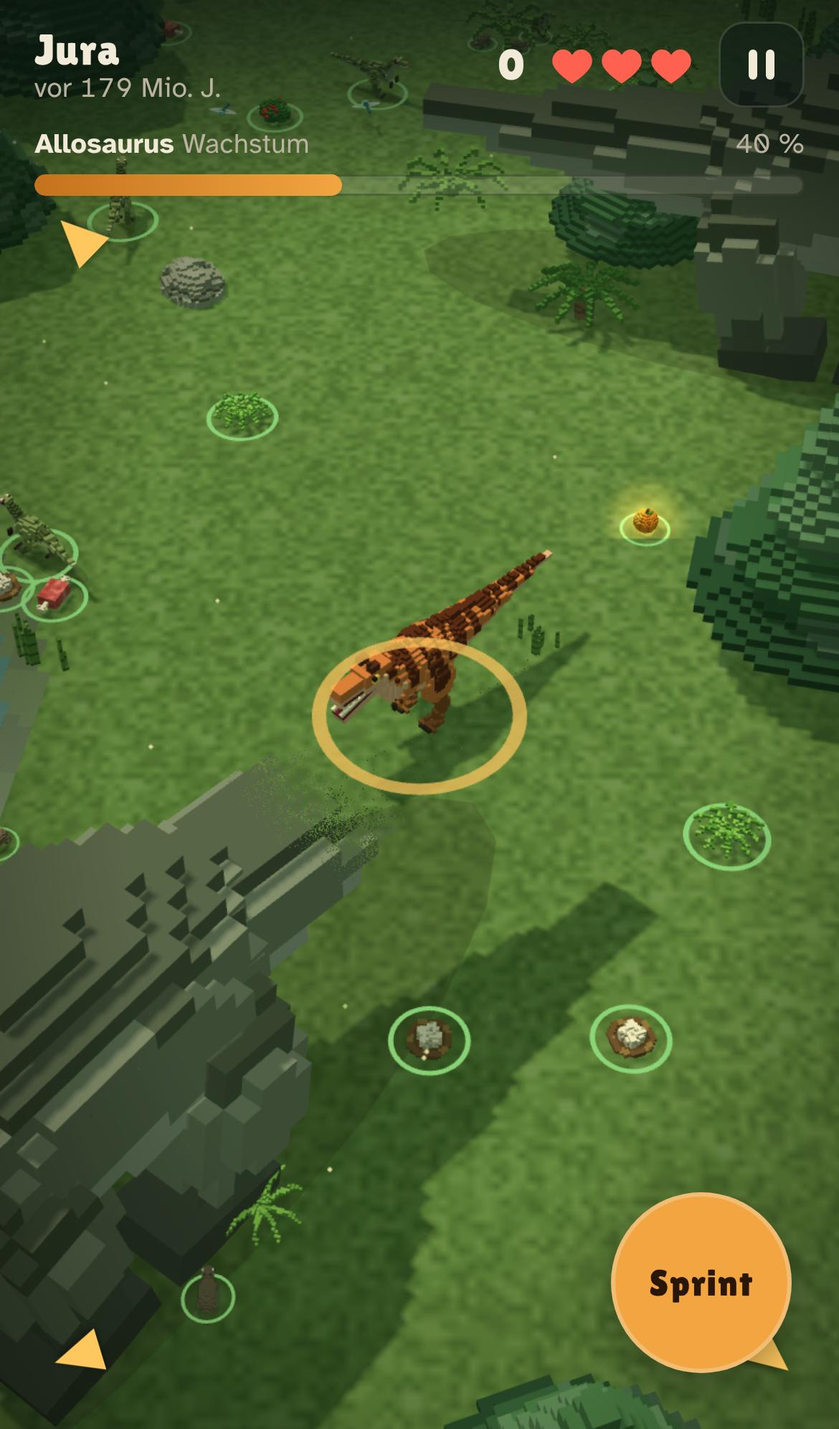
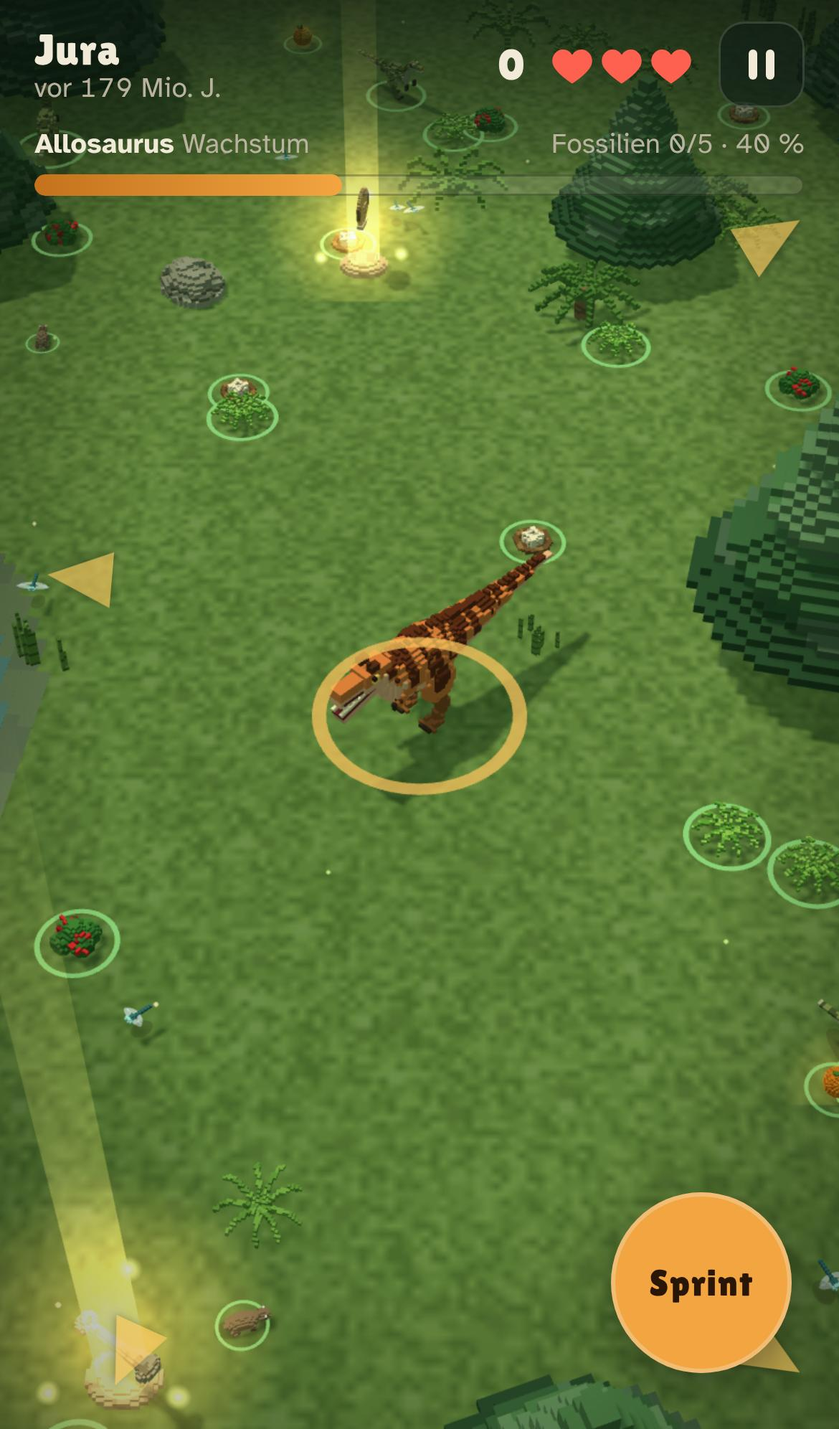
feat: 15 Fossilien in 11 Voxel-Fundarten, leichter zu finden
Lichtsäulen, Fundorte näher am Start, Zähler im HUD, Fossilbuch mit Bildern,
Reiter Fossilien in der Modellansicht.

Design: prototypes/urzeit-odyssee/README.md (Version 3.1)

Claude-Session: https://claude.ai/code/session_0149ejBGP8NAEbxPA8FZAkGc

diff --git a/prototypes/urzeit-odyssee/index.html b/prototypes/urzeit-odyssee/index.html
@@ -121,11 +121,9 @@ h2{font-size:clamp(34px,9vw,46px)}
 
 /* Fossilbuch */
 .book{display:grid;gap:8px;max-height:52vh;overflow-y:auto;padding-right:4px}
-.fossil{display:grid;grid-template-columns:34px minmax(0,1fr);gap:12px;padding:10px 0;border-top:1px solid var(--line)}
-.fossil .ico{width:34px;height:34px;border-radius:50%;background:radial-gradient(circle at 40% 40%,#f3d9a3,#b98a4a);position:relative}
-.fossil .ico::after{content:"";position:absolute;inset:8px;border-radius:50%;border:2px solid rgba(90,55,20,.6);border-right-color:transparent}
-.fossil.locked .ico{background:rgba(242,234,216,.1)}
-.fossil.locked .ico::after{display:none}
+.fossil{display:grid;grid-template-columns:64px minmax(0,1fr);gap:12px;align-items:center;padding:10px 0;border-top:1px solid var(--line)}
+.fossil img{width:64px;height:64px;border-radius:14px;background:radial-gradient(circle at 50% 42%,rgba(242,165,65,.32),rgba(242,234,216,.05) 70%)}
+.fossil.locked img{filter:brightness(0) opacity(.35);background:rgba(242,234,216,.06)}
 .fossil b{display:block;font-size:15px}
 .fossil small{display:block;font-size:12px;color:var(--amber);letter-spacing:.08em;text-transform:uppercase}
 .fossil span{font-size:14px;color:var(--muted)}
@@ -138,6 +136,8 @@ h2{font-size:clamp(34px,9vw,46px)}
 @keyframes sky{from{opacity:.7}to{opacity:1}}
 #joy{position:fixed;left:0;top:0;z-index:2;width:112px;height:112px;margin:-56px 0 0 -56px;border-radius:50%;border:2px solid rgba(242,234,216,.38);background:rgba(242,234,216,.1);pointer-events:none}
 #joy i{position:absolute;left:50%;top:50%;width:48px;height:48px;margin:-24px 0 0 -24px;border-radius:50%;background:rgba(242,234,216,.5)}
+.arrow.fos{margin:-13px 0 0 -12px;border-left-width:30px;border-top-width:13px;border-bottom-width:13px;animation:fosPulse 1.1s ease-in-out infinite}
+@keyframes fosPulse{0%,100%{opacity:.55}50%{opacity:1}}
 .arrow{position:fixed;left:0;top:0;z-index:2;width:0;height:0;margin:-10px 0 0 -9px;border-left:22px solid currentColor;border-top:10px solid transparent;border-bottom:10px solid transparent;pointer-events:none;filter:drop-shadow(0 1px 2px rgba(0,0,0,.45))}
 /* Modellansicht */
 .gal #tint,.gal #vignette,.gal #sky,.gal #arrows,.gal #toast,.gal #joy{display:none!important}
@@ -152,7 +152,7 @@ h2{font-size:clamp(34px,9vw,46px)}
 .gtab:focus-visible{outline:3px solid var(--amber);outline-offset:2px}
 
 @media (prefers-reduced-motion:reduce){
-  #overlay.show .card,#toast.show,#sky{animation:none}
+  #overlay.show .card,#toast.show,#sky,.arrow.fos{animation:none}
   .bar i{transition:none}
 }
 </style>
@@ -164,7 +164,7 @@ h2{font-size:clamp(34px,9vw,46px)}
 <div id="gallery" hidden>
   <div class="g-head" id="gHead"></div>
   <div id="gLabels"></div>
-  <div class="g-bar"><button class="gtab" data-g="eo">Eoraptor</button><button class="gtab" data-g="hunter">Raubjäger</button><button class="gtab" data-g="food">Futter</button><button class="gtab" data-g="back">Zurück</button></div>
+  <div class="g-bar"><button class="gtab" data-g="eo">Eoraptor</button><button class="gtab" data-g="hunter">Raubjäger</button><button class="gtab" data-g="food">Futter</button><button class="gtab" data-g="fossil">Fossilien</button><button class="gtab" data-g="back">Zurück</button></div>
 </div>
 
 <header id="hud" hidden>
@@ -227,9 +227,11 @@ const ERAS = [
       ['Tiere', 'Die ersten Dinosaurier waren klein, flink und zweibeinig.'],
     ],
     fossils: [
-      { id: 't1', title: 'Welt ohne Blumen', text: 'In der Trias gab es noch keine Blumen und Gräser. Es wuchsen Farne, Ginkgos, Palmfarne und Nadelbäume.' },
-      { id: 't2', title: 'Herrscher Pseudosuchia', text: 'An der Spitze standen nicht die Dinosaurier, sondern krokodilähnliche Archosaurier wie Postosuchus.' },
-      { id: 't3', title: 'Mussaurus-Nester', text: 'In Patagonien fand man an einer Stelle über 100 Eier und rund 80 Tiere von Mussaurus.' },
+      { id: 't1', type: 'leaf', title: 'Welt ohne Blumen', text: 'In der Trias gab es noch keine Blumen und Gräser. Es wuchsen Farne, Ginkgos, Palmfarne und Nadelbäume.' },
+      { id: 't2', type: 'tooth', title: 'Herrscher Pseudosuchia', text: 'An der Spitze standen nicht die Dinosaurier, sondern krokodilähnliche Archosaurier wie Postosuchus.' },
+      { id: 't3', type: 'egg', title: 'Mussaurus-Nester', text: 'In Patagonien fand man an einer Stelle über 100 Eier und rund 80 Tiere von Mussaurus.' },
+      { id: 't4', type: 'feather', title: 'Flaum gegen den Winter', text: 'Isolierende Filamente halfen frühen Dinosauriern vermutlich, die vulkanischen Winter an der Trias-Jura-Grenze zu überstehen.' },
+      { id: 't5', type: 'bone', title: 'Thermometer im Knochen', text: 'Sauerstoff-Isotope im Knochen hängen von der Temperatur ab. So lässt sich die Körpertemperatur von Dinosauriern abschätzen.' },
     ],
     outro: { title: 'Massenaussterben', text: 'Am Ende der Trias sterben viele große Konkurrenten der Dinosaurier aus. Das ist der Startschuss für ihre Herrschaft.', next: 'Weiter in den Jura' },
     species: [
@@ -259,9 +261,11 @@ const ERAS = [
       ['Pflanzen', 'Riesige Wälder aus Nadelbäumen, Farnen und Palmfarnen.'],
     ],
     fossils: [
-      { id: 'j1', title: 'Riesen-Sauropoden', text: 'Langhalsige Sauropoden wie Brachiosaurus und Diplodocus wurden im Jura gigantisch.' },
-      { id: 'j2', title: 'Erste große Räuber', text: 'Mit Allosaurus tauchten im Jura die ersten großen Raubsaurier auf.' },
-      { id: 'j3', title: 'Panzer und Platten', text: 'Gepanzerte Dinosaurier wie Stegosaurus erschienen zum ersten Mal.' },
+      { id: 'j1', type: 'bone', title: 'Riesen-Sauropoden', text: 'Langhalsige Sauropoden wie Brachiosaurus und Diplodocus wurden im Jura gigantisch.' },
+      { id: 'j2', type: 'claw', title: 'Erste große Räuber', text: 'Mit Allosaurus tauchten im Jura die ersten großen Raubsaurier auf.' },
+      { id: 'j3', type: 'plate', title: 'Panzer und Platten', text: 'Gepanzerte Dinosaurier wie Stegosaurus erschienen zum ersten Mal.' },
+      { id: 'j4', type: 'vertebra', title: 'Atmen wie ein Vogel', text: 'Sauropoden besaßen ein vogelähnliches Atmungssystem mit Luftsäcken. Die Luft strömte in einer Richtung durch die Lunge.' },
+      { id: 'j5', type: 'feather', title: 'Schuppen und Flaum', text: 'Kulindadromeus aus dem Mitteljura Sibiriens trug Schuppen und federartige Filamente. Auch Vogelbeckensaurier hatten also Flaum.' },
     ],
     outro: { title: 'Zeitalter der Riesen', text: 'Die Dinosaurier sind so vielfältig und groß wie nie. Als Nächstes kommt die Kreidezeit, die längste Epoche der Dinosaurier.', next: 'Weiter in die Kreidezeit' },
     species: [
@@ -292,9 +296,11 @@ const ERAS = [
       ['Pflanzen', 'Die ersten Blütenpflanzen tauchen auf.'],
     ],
     fossils: [
-      { id: 'k1', title: 'Verheilte Bisse', text: 'Triceratops-Hörner mit verheilten T.-rex-Bissspuren zeigen: Der Triceratops überlebte manche Kämpfe.' },
-      { id: 'k2', title: 'Brütender Citipati', text: 'Ein Citipati wurde auf seinem Gelege versteinert, die befiederten Arme über den Eiern.' },
-      { id: 'k3', title: 'Vogel vor dem Einschlag', text: 'Vegavis lebte vor rund 69 Millionen Jahren in der Antarktis: ein Vogel noch zur Zeit der Dinosaurier.' },
+      { id: 'k1', type: 'horn', title: 'Verheilte Bisse', text: 'Triceratops-Hörner mit verheilten T.-rex-Bissspuren zeigen: Der Triceratops überlebte manche Kämpfe.' },
+      { id: 'k2', type: 'egg', title: 'Brütender Citipati', text: 'Ein Citipati wurde auf seinem Gelege versteinert, die befiederten Arme über den Eiern.' },
+      { id: 'k3', type: 'feather', title: 'Vogel vor dem Einschlag', text: 'Vegavis lebte vor rund 69 Millionen Jahren in der Antarktis: ein Vogel noch zur Zeit der Dinosaurier.' },
+      { id: 'k4', type: 'skull', title: 'Nase eines Jägers', text: 'Tyrannosaurier hatten auffallend große Riechkolben und witterten Beute vermutlich über weite Strecken. Ihre Augen zeigten nach vorn.' },
+      { id: 'k5', type: 'track', title: 'Schnellste Fährte', text: 'In der Inneren Mongolei hinterließ ein mittelgroßer Theropode eine Spur aus der Unterkreide, die auf bis zu etwa 45 km/h schließen lässt.' },
     ],
     outro: { title: 'Vor 66 Millionen Jahren', text: 'Ein Asteroid schlägt ein. Die großen Dinosaurier haben keine Chance. Aber deine Linie hat einen Trumpf.', next: 'Zum Einschlag' },
     species: [
@@ -856,7 +862,27 @@ function foodPrims(type, P) {
   for (let k = 0; k < 4; k++) { const a = k / 4 * TAU + .4; B.push(pE([Math.cos(a) * .22, .25, Math.sin(a) * .22], [.2, .27, .2], (x, y, z, N, ix, iy, iz) => (hashI(ix, iy, iz, 2) > .85 ? shade(P.egg, -.25) : N[1] > .5 ? shade(P.egg, .2) : P.egg))); }
   return { prims: B, v: .06 };
 }
-const fossilGeo = voxGeo([pE([0, 0, 0], [1, 1, .28], (x, y, z) => { const r = Math.hypot(x, y), a = Math.atan2(y, x) / TAU + .5, uu = r * 4.2 - a; return uu - Math.floor(uu) < .3 ? '#8a5a2a' : (r > .9 ? '#c9a46a' : '#ead0a0'); })], .1);
+/* Fossilien: elf Fundarten aus Würfeln (Einheit ~1) */
+const FOSSIL_NAMES = { leaf: 'Farnabdruck', tooth: 'Zahn', egg: 'Eier', feather: 'Federabdruck', bone: 'Knochen', vertebra: 'Wirbel', claw: 'Kralle', plate: 'Rückenplatte', horn: 'Horn', skull: 'Schädel', track: 'Fährte' };
+const STONE = '#bcae90', STONE2 = '#a29478', FB1 = '#dcc79e', FB2 = '#b39a6e', FDARK = '#3a2c20';
+const fbone = (x, y, z, N, ix, iy, iz) => (vnoise(ix / 2, iy / 2, iz / 2, 31) > .62 ? FB2 : FB1);
+const slab = (h, fn) => pB([0, .12, 0], [h[0], .12, h[1]], (x, y, z, N) => (N[1] > .7 ? fn(x, z) : y < .07 ? STONE2 : STONE));
+const FOSSILS = {
+  leaf: () => ({ v: .05, prims: [slab([.8, .6], (x, z) => { const m = z - .12 * x, w = .34 * (1 - Math.abs(x) / .7); if (Math.abs(x) > .66) return STONE; if (Math.abs(m) < .045) return '#4e4a2a'; return Math.abs(m) < w && (((x * 9) % 1 + 1) % 1) < .5 ? '#6f7a3e' : STONE; })] }),
+  feather: () => ({ v: .05, prims: [slab([.8, .6], (x, z) => { const zz = z - .08 * Math.sin(x * 3), w = .24 * (1 - Math.abs(x - .05) / .65); if (Math.abs(x) > .66) return STONE; if (Math.abs(zz) < .035) return '#4a4236'; return Math.abs(zz) < w && (((x * 11 + Math.abs(zz) * 9) % 1 + 1) % 1) < .55 ? '#6e665a' : (Math.abs(zz) < w ? '#8f877a' : STONE); })] }),
+  track: () => ({ v: .05, prims: [slab([.85, .7], (x, z) => { const heel = Math.hypot(x + .28, z) < .16, toe = (tx, tz) => { const L = Math.hypot(tx + .2, tz), t = clamp(((x + .2) * (tx + .2) + z * tz) / (L * L), 0, 1); return Math.hypot(x + .2 - (tx + .2) * t, z - tz * t) < .075; }; return heel || toe(.32, -.3) || toe(.45, 0) || toe(.32, .3) ? '#6a5a44' : STONE; })] }),
+  egg: () => ({ v: .05, prims: [pE([0, .08, 0], [.78, .11, .62], STONE2), ...[[-.25, -.12, .3], [.22, -.18, -.4], [.02, .24, .1]].map(([x, z, r]) => pE([x, .2, z], [.24, .19, .19], (xx, y, zz, N, ix, iy, iz) => (hashI(ix, iy, iz, 5) > .86 ? '#8e7e60' : '#d2c4a2'), [0, r, .2]))] }),
+  bone: () => ({ v: .05, prims: [pC([-.6, .18, 0], [.6, .18, 0], .1, .12, fbone), pE([-.7, .22, -.09], [.15, .15, .15], fbone), pE([-.7, .22, .09], [.15, .15, .15], fbone), pE([.7, .2, 0], [.17, .15, .21], fbone)] }),
+  vertebra: () => ({ v: .045, prims: [pC([0, .25, -.2], [0, .25, .2], .25, .25, (x, y, z, N, ix, iy, iz) => (Math.abs(x) > .14 && Math.hypot(y - .25, z) < .1 ? FDARK : fbone(x, y, z, N, ix, iy, iz))), pB([0, .66, 0], [.08, .3, .07], fbone), pC([0, .42, 0], [-.48, .46, 0], .08, .05, fbone), pC([0, .42, 0], [.48, .46, 0], .08, .05, fbone), pB([0, .5, .1], [.06, .06, .06], FDARK)] }),
+  claw: () => { const pts = [[-.38, .14], [-.08, .38], [.24, .44], [.5, .3], [.62, .1]], r = [.16, .13, .1, .065, .035], B = []; for (let i = 0; i < 4; i++) B.push(pC([pts[i][0], pts[i][1], 0], [pts[i + 1][0], pts[i + 1][1], 0], r[i], r[i + 1], i < 1 ? '#7a5a3e' : '#4a3426')); return { v: .045, prims: B }; },
+  plate: () => ({ v: .045, prims: [pE([0, .55, 0], [.48, .55, .07], (x, y, z, N, ix, iy) => (Math.abs(N[0]) > .85 || N[1] > .9 ? '#7a5a30' : (iy % 3 === 0 ? '#9a7642' : '#c49c60'))), pB([0, .05, 0], [.3, .05, .1], STONE2)] }),
+  horn: () => ({ v: .045, prims: [pK([-.5, .15, 0], [1, .5, 0], .22, 1.2, (x, y, z, N, ix, iy, iz) => (NN.t > .25 && NN.t < .7 && hashI(ix, iy, iz, 9) > .9 ? FDARK : NN.t > .7 ? '#e6d4ac' : NN.t < .15 ? '#9a805a' : FB1))] }),
+  skull: () => { const B = [pB([-.15, .4, 0], [.3, .24, .22], fbone), pB([.38, .32, 0], [.32, .16, .16], fbone), pB([.2, .12, 0], [.46, .06, .15], FB2)]; for (const sd of [-1, 1]) B.push(pB([-.1, .46, sd * .21], [.09, .09, .03], FDARK), pB([.2, .36, sd * .155], [.1, .07, .03], FDARK), pB([.62, .38, sd * .155], [.045, .045, .03], FDARK)); for (let x = .12; x < .66; x += .09) for (const sd of [-1, 1]) B.push(pB([x, .17, sd * .13], [.03, .04, .03], '#f2e8cc')); return { v: .045, prims: B }; },
+  tooth: () => ({ v: .04, prims: [pC([0, .04, 0], [.05, .42, 0], .17, .12, (x, y) => (y < .16 ? '#7a5a3e' : '#ece0c0')), pC([.05, .42, 0], [.18, .82, 0], .12, .04, (x, y, z, N, ix, iy) => (N[0] > .7 && (iy & 1) ? '#c9b994' : '#ece0c0'))] }),
+};
+const fossilGeoCache = {};
+function getFossilGeo(type) { if (!fossilGeoCache[type]) { const d = FOSSILS[type](); fossilGeoCache[type] = voxGeo(d.prims, d.v); } return fossilGeoCache[type]; }
+const FOSSIL_BASE = voxGeo([pE([0, .1, 0], [.9, .32, .75], (x, y, z, N, ix, iy, iz) => (vnoise(ix / 2, iy / 2, iz / 2, 21) > .55 ? '#8a7c66' : '#a3957c'))], .1);
 const seedGeo = voxGeo([0, 1, 2].map(k => pE([Math.cos(k * 2.1) * .35, .22, Math.sin(k * 2.1) * .35], [.35, .22, .25], k === 1 ? '#d2a85e' : '#e2bd72')), .12);
 
 /* =====================================================================
@@ -905,8 +931,11 @@ function canvasTex(px, draw) { const c = document.createElement('canvas'); c.wid
 const glowTex = canvasTex(64, (g, p) => { const gr = g.createRadialGradient(p / 2, p / 2, 0, p / 2, p / 2, p / 2); gr.addColorStop(0, 'rgba(255,255,255,1)'); gr.addColorStop(.35, 'rgba(255,255,255,.45)'); gr.addColorStop(1, 'rgba(255,255,255,0)'); g.fillStyle = gr; g.fillRect(0, 0, p, p); });
 const dotTex = canvasTex(32, (g, p) => { g.fillStyle = '#fff'; g.beginPath(); g.arc(p / 2, p / 2, p / 2 - 1, 0, TAU); g.fill(); });
 const glowMat = (c, o = 1) => new THREE.SpriteMaterial({ map: glowTex, color: col(c), transparent: true, opacity: o, blending: THREE.AdditiveBlending, depthWrite: false });
-const matFossilGlow = glowMat('#ffb347', .9), matSeedGlow = glowMat('#ffd98a', .55), matFruitGlow = glowMat('#ffb23c', .75), matMeteorGlow = glowMat('#ff8a3c'), matTrail = glowMat('#ff6a2a', .6);
+const matSpark = glowMat('#fff2c0', .95), matFossilGlow = glowMat('#ffb347', .9), matSeedGlow = glowMat('#ffd98a', .55), matFruitGlow = glowMat('#ffb23c', .75), matMeteorGlow = glowMat('#ff8a3c'), matTrail = glowMat('#ff6a2a', .6);
 
+const beamTex = canvasTex(64, (g, p) => { const gr = g.createLinearGradient(0, 0, 0, p); gr.addColorStop(0, 'rgba(255,255,255,0)'); gr.addColorStop(.55, 'rgba(255,255,255,.35)'); gr.addColorStop(1, 'rgba(255,255,255,1)'); g.fillStyle = gr; g.fillRect(0, 0, p, p); });
+const matBeam = new THREE.MeshBasicMaterial({ map: beamTex, color: col('#ffcf6a'), transparent: true, opacity: .4, blending: THREE.AdditiveBlending, depthWrite: false, side: THREE.DoubleSide, fog: false });
+const BEAM_GEO = new THREE.CylinderGeometry(1, 1, 1, 18, 1, true).translate(0, .5, 0);
 function mergePlain(geos) {
   let n = 0; geos.forEach(g => { n += g.attributes.position.array.length; });
   const pos = new Float32Array(n); let o = 0;
@@ -1126,6 +1155,7 @@ function clearWorld() {
   for (const b of world.batches) b.detach();
   for (const t in world.food) { const set = world.food[t]; scene.remove(set.mesh); for (const it of set.items) if (it.glow) scene.remove(it.glow); set.items.length = 0; set.dirty = true; }
   for (const o of [...world.fossils, ...world.seeds]) if (o.mesh) scene.remove(o.mesh);
+  for (const f of world.fossils) { f.beam.material.dispose(); f.glow.material.dispose(); }
   for (const o of world.craters) scene.remove(o);
   if (F) for (const m of F.meteors) removeMeteor(m);
   scene.remove(world.group);
@@ -1160,17 +1190,24 @@ function buildWorld(i) {
     const small = E.species.find(sp => sp.diet !== 'bug' && sp.size <= 9);
     if (small) world.creatures.filter(c => c.sp === small).slice(0, 3).forEach((c, k) => place(c, k + 4));
   }
-  for (const f of E.fossils) {
+  // Fossilien im Ring um den Start verteilen, jedes mit Steinsockel, Lichtsäule und Funken
+  const ang0 = R() * TAU;
+  E.fossils.forEach((f, k) => {
     let x, y;
-    for (let k = 0; k < 40; k++) {
-      x = 200 + R() * (WORLD - 400); y = 200 + R() * (WORLD - 400);
-      if (Math.hypot(x - WORLD / 2, y - WORLD / 2) > 650 && world.fossils.every(o => Math.hypot(o.x - x, o.y - y) > 700)) break;
+    for (let tries = 0; tries < 60; tries++) {
+      const a = ang0 + k * TAU / E.fossils.length + (R() - .5) * .9, d = 320 + R() * 560;
+      x = clamp(WORLD / 2 + Math.cos(a) * d, 150, WORLD - 150); y = clamp(WORLD / 2 + Math.sin(a) * d, 150, WORLD - 150);
+      if (world.fossils.every(o => Math.hypot(o.x - x, o.y - y) > 380)) break;
     }
-    const mesh = new THREE.Group(), am = new THREE.Mesh(fossilGeo, matC); am.scale.setScalar(12); am.castShadow = true;
-    const glow = new THREE.Sprite(matFossilGlow); glow.scale.setScalar(90);
-    mesh.add(glow, am); mesh.position.set(x, 20, y); scene.add(mesh);
-    world.fossils.push({ ...f, x, y, got: false, mesh, am });
-  }
+    const mesh = new THREE.Group(), base = new THREE.Mesh(FOSSIL_BASE, matC), model = new THREE.Mesh(getFossilGeo(f.type), matC);
+    base.scale.setScalar(15); base.castShadow = base.receiveShadow = true;
+    model.scale.setScalar(20); model.position.y = 26; model.castShadow = true;
+    const beam = new THREE.Mesh(BEAM_GEO, matBeam.clone()); beam.scale.set(9, 340, 9);
+    const glow = new THREE.Sprite(matFossilGlow.clone()); glow.scale.setScalar(115); glow.position.y = 30;
+    const sparks = [0, 1, 2].map(() => { const sp = new THREE.Sprite(matSpark); sp.scale.setScalar(9); mesh.add(sp); return sp; });
+    mesh.add(base, model, beam, glow); mesh.position.set(x, 0, y); scene.add(mesh);
+    world.fossils.push({ ...f, x, y, got: false, mesh, model, beam, glow, sparks, t0: -1 });
+  });
   partsN = 0;
 }
 
@@ -1350,12 +1387,12 @@ function interact() {
     for (let i = items.length - 1; i >= 0; i--) { const it = items[i]; if (Math.hypot(it.x - p.x, it.y - p.y) < p.s * .9 + it.s * .6) eatFood(it); }
   }
   for (const f of world.fossils) {
-    if (f.got || Math.hypot(f.x - p.x, f.y - p.y) > p.s + 26) continue;
-    f.got = true; scene.remove(f.mesh); game.found.add(f.id); game.score += 100; Sfx.fossil();
-    burst(f.x, f.y, '#ffd27a', 18, 140, 20);
+    if (f.got || Math.hypot(f.x - p.x, f.y - p.y) > p.s + 42) continue;
+    f.got = true; f.t0 = game.time; game.found.add(f.id); game.score += 100; Sfx.fossil();
+    burst(f.x, f.y, '#ffd27a', 26, 160, 26); burst(f.x, f.y, '#fff2c0', 12, 90, 40);
     const isNew = !store.fossils.includes(f.id);
     if (isNew) { store.fossils.push(f.id); save(); }
-    toast(isNew ? `Neu im Fossilbuch: ${f.title}` : `Fossil: ${f.title}`, f.text);
+    toast(`${isNew ? 'Neu im Fossilbuch' : 'Fossil'}: ${FOSSIL_NAMES[f.type]} · ${f.title}`, f.text);
   }
 }
 
@@ -1551,7 +1588,18 @@ function render3D() {
       m.count = n; m.instanceMatrix.needsUpdate = true;
     }
   }
-  for (const f of world.fossils) { f.am.rotation.y = t * 1.2; f.mesh.position.y = 20 + Math.sin(t * 2 + f.x) * 3; }
+  for (const f of world.fossils) {
+    if (f.t0 >= 0) {
+      const k = clamp((t - f.t0) / .8, 0, 1);
+      f.model.position.y = 26 + k * 70; f.model.scale.setScalar(20 * (1 + k * .6)); f.model.rotation.y += .25;
+      f.beam.material.opacity = .45 * (1 - k); f.glow.material.opacity = .9 * (1 - k); f.glow.scale.setScalar(115 * (1 + k * 1.5));
+      if (k >= 1 && f.mesh.parent) scene.remove(f.mesh);
+      continue;
+    }
+    f.model.rotation.y = t * 1.1 + f.x; f.model.position.y = 26 + Math.sin(t * 2 + f.x) * 4;
+    f.beam.material.opacity = .3 + .14 * Math.sin(t * 3 + f.y);
+    f.sparks.forEach((sp, i) => { const a = t * 1.6 + i * TAU / 3; sp.position.set(Math.cos(a) * 26, 26 + Math.sin(t * 3 + i) * 12, Math.sin(a) * 26); });
+  }
   for (const s of world.seeds) s.mesh.children[1].material.opacity = .45 + .15 * Math.sin(t * 4 + s.ph);
   // Spieler
   if (player && game.mode !== 'title') {
@@ -1597,16 +1645,17 @@ function updateOverlay() {
   else if (dom.flash.style.opacity !== '0') dom.flash.style.opacity = '0';
   let n = 0;
   if (player && (game.mode === 'play' || game.mode === 'paused')) {
-    for (const f of world.fossils) if (!f.got && n < 8) n = placeArrow(n, f.x, f.y, '#ffc85f');
-    for (const c of world.creatures) if (c.state === 'chase' && n < 8) n = placeArrow(n, c.x, c.y, '#ff6150');
+    for (const f of world.fossils) if (!f.got && n < 8) n = placeArrow(n, f.x, f.y, '#ffc85f', true);
+    for (const c of world.creatures) if (c.state === 'chase' && n < 8) n = placeArrow(n, c.x, c.y, '#ff6150', false);
   }
   for (let i = n; i < 8; i++) if (!arrowEls[i].hidden) arrowEls[i].hidden = true;
 }
-function placeArrow(n, x, y, c) {
+function placeArrow(n, x, y, c, fos) {
   let [sx, sy, sz] = screenOf(x, y, 10); const m = 34, top = 110;
   if (sz < 1 && sx > m && sx < W - m && sy > top && sy < H - m) return n;
   if (sz > 1) { sx = W - sx; sy = H - sy; }
   const a = Math.atan2(sy - H / 2, sx - W / 2), ax = clamp(sx, m, W - m), ay = clamp(sy, top, H - m), el = arrowEls[n];
+  const cls = fos ? 'arrow fos' : 'arrow'; if (el.className !== cls) el.className = cls;
   el.hidden = false; el.style.color = c; el.style.transform = `translate(${ax.toFixed(1)}px,${ay.toFixed(1)}px) rotate(${a.toFixed(3)}rad)`;
   return n + 1;
 }
@@ -1662,6 +1711,10 @@ function buildGallery() {
     const root = new THREE.Group(); root.add(mesh); root.scale.setScalar(sc); return { r: { root, parts: [], M: { height: 1.2 } }, label, below: true, spin: true, food: true };
   });
   tabs.food = { head: 'FUTTER-RESSOURCEN', items: foodItems };
+  tabs.fossil = { head: 'FOSSILIEN', items: Object.keys(FOSSIL_NAMES).map(type => {
+    const mesh = new THREE.Mesh(getFossilGeo(type), matG); mesh.castShadow = mesh.receiveShadow = true;
+    const root = new THREE.Group(); root.add(mesh); root.scale.setScalar(1.5); return { r: { root, parts: [], M: { height: 1 } }, label: FOSSIL_NAMES[type].toUpperCase(), below: true, spin: true, food: true };
+  }) };
   for (const k in tabs) { tabs[k].group = new THREE.Group(); tabs[k].items.forEach(it => tabs[k].group.add(it.r.root)); }
   gal = { scene: gs, cam: gcam, tabs, light: gl, labels: [] };
 }
@@ -1671,6 +1724,7 @@ function layoutGallery() {
   let cols = portrait ? 2 : n, gapX = 0;
   if (game.galleryTab === 'hunter') cols = portrait ? 1 : 3;
   if (game.galleryTab === 'food' && portrait) cols = 2;
+  if (game.galleryTab === 'fossil') cols = portrait ? 3 : 6;
   const sizes = items.map(it => new THREE.Box3().setFromObject(it.r.root).getSize(new THREE.Vector3()));
   const main = items.filter(it => !it.small);
   const cw = Math.max(...main.map(it => sizes[items.indexOf(it)].x), 1) + .35, rows = Math.ceil(main.length / cols), rd = (portrait ? 6 : 4.2) + (game.galleryTab === 'hunter' ? 2.2 : 0);
@@ -1742,7 +1796,7 @@ function updateHud() {
     const low = F.energy < .25; if (hudCache.low !== low) { hudCache.low = low; dom.barWrap.classList.toggle('low', low); }
   } else {
     setText('#hudClock', `vor ${Math.round(lerp(E.from, E.to, pr))} Mio. J.`);
-    setText('#hudPct', `${Math.round(pr * 100)} %`);
+    setText('#hudPct', `Fossilien ${game.found.size}/${E.fossils.length} · ${Math.round(pr * 100)} %`);
     setStyle('bar', dom.bar, 'width', `${(pr * 100).toFixed(1)}%`);
   }
 }
@@ -1793,7 +1847,7 @@ function showIntro() {
     <p class="lead">${E.lead}</p>
     <ul class="facts">${E.intro.map(([k, v]) => `<li><b>${k}</b><span>${v}</span></li>`).join('')}</ul>
     ${E.finale ? `<p class="hint">Rote Kreise zeigen, wo es gleich einschlägt. Überlebe ${CONFIG.finaleTime} Sekunden.</p>`
-      : '<div class="legend"><span class="lg ok">fressbar</span><span class="lg food">Farn, Beeren, Fleisch, Urzeitfrucht, Gelege</span><span class="lg bad">gefährlich</span><span class="lg fos">Fossil (3 pro Epoche)</span></div>'}
+      : `<div class="legend"><span class="lg ok">fressbar</span><span class="lg food">Farn, Beeren, Fleisch, Urzeitfrucht, Gelege</span><span class="lg bad">gefährlich</span><span class="lg fos">Fossil (${E.fossils.length} pro Epoche, goldene Lichtsäule)</span></div>`}
     <div class="row"><button class="btn primary" data-act="go">Los</button></div>
   `);
 }
@@ -1810,10 +1864,29 @@ function showPause() {
     </div>
   `);
 }
+const thumbCache = {}, matThumb = new THREE.MeshLambertMaterial({ vertexColors: true });
+// Kleines Bild eines Fossils für das Fossilbuch (einmal gerendert, dann zwischengespeichert)
+function fossilThumb(type) {
+  if (thumbCache[type]) return thumbCache[type];
+  const S = 160, rt = new THREE.WebGLRenderTarget(S, S); rt.texture.encoding = THREE.sRGBEncoding;
+  const ts = new THREE.Scene(), dl = new THREE.DirectionalLight(col('#ffffff'), .75); dl.position.set(-2, 3, 2);
+  ts.add(new THREE.HemisphereLight(col('#ffffff'), col('#8a8070'), .8), dl);
+  const mesh = new THREE.Mesh(getFossilGeo(type), matThumb); mesh.rotation.y = -.5; ts.add(mesh);
+  const box = new THREE.Box3().setFromObject(mesh), c = box.getCenter(new THREE.Vector3()), r = box.getSize(new THREE.Vector3()).length() * .5;
+  const cam = new THREE.PerspectiveCamera(30, 1, .01, 50); cam.position.set(c.x + r * .9, c.y + r * 1.7, c.z + r * 2.9); cam.lookAt(c);
+  const oc = renderer.getClearColor(new THREE.Color()), oa = renderer.getClearAlpha();
+  renderer.setClearColor(0x000000, 0); renderer.setRenderTarget(rt); renderer.clear(); renderer.render(ts, cam);
+  const px = new Uint8Array(S * S * 4); renderer.readRenderTargetPixels(rt, 0, 0, S, S, px);
+  renderer.setRenderTarget(null); renderer.setClearColor(oc, oa); rt.dispose();
+  const cv = document.createElement('canvas'); cv.width = cv.height = S; const g = cv.getContext('2d'), img = g.createImageData(S, S);
+  for (let y = 0; y < S; y++) img.data.set(px.subarray((S - 1 - y) * S * 4, (S - y) * S * 4), y * S * 4);
+  g.putImageData(img, 0, 0);
+  return (thumbCache[type] = cv.toDataURL());
+}
 function showBook() {
   const items = ALL_FOSSILS.map(f => {
     const got = store.fossils.includes(f.id);
-    return `<div class="fossil ${got ? '' : 'locked'}"><div class="ico"></div><div><small>${f.era}</small><b>${got ? f.title : 'Noch nicht gefunden'}</b><span>${got ? f.text : 'Suche die leuchtenden Ammoniten. Goldene Pfeile am Rand zeigen den Weg.'}</span></div></div>`;
+    return `<div class="fossil ${got ? '' : 'locked'}"><img src="${fossilThumb(f.type)}" alt="${FOSSIL_NAMES[f.type]}"><div><small>${f.era} · ${FOSSIL_NAMES[f.type]}</small><b>${got ? f.title : 'Noch nicht gefunden'}</b><span>${got ? f.text : 'Folge den goldenen Lichtsäulen und Pfeilen.'}</span></div></div>`;
   }).join('');
   card(`
     <p class="eyebrow">Fossilbuch · ${store.fossils.length} von ${ALL_FOSSILS.length}</p>
@@ -1854,7 +1927,7 @@ function eraDone() {
     <p class="eyebrow">${E.name} geschafft · vor ${E.to} Mio. Jahren</p>
     <h2>${E.outro.title}</h2>
     <p>${E.outro.text}</p>
-    <div class="stats">${stat(game.score, 'Punkte')}${stat(`${game.found.size}/3`, 'Fossilien')}${stat(Math.round(player.targetS), 'Größe')}</div>
+    <div class="stats">${stat(game.score, 'Punkte')}${stat(`${game.found.size}/${E.fossils.length}`, 'Fossilien')}${stat(Math.round(player.targetS), 'Größe')}</div>
     <div class="row"><button class="btn primary" data-act="next">${E.outro.next}</button></div>
   `);
 }

diff --git a/prototypes/urzeit-odyssee/README.md b/prototypes/urzeit-odyssee/README.md
@@ -124,5 +124,17 @@ Bot-Messung (läuft zur nächsten Beute, weicht Gefahren aus, ohne Sprint):
 - Bot-Messung Trias mit Fliehen: fair, aber lang → Ziel 38 → 34.
 - Ladezeit im Test-Browser: Titel nach 2 s, Epochenwechsel danach sofort (Vorbau im Hintergrund).
 
+### Version 3.1: Fossilien
+
+- 5 Fossilien pro Epoche statt 3 (15 insgesamt), neue Fakten aus dem Second Brain
+  (Flaum gegen den Vulkanwinter, Knochen als Thermometer, Luftsäcke, Kulindadromeus,
+  Riechkolben des T. rex, 45-km/h-Fährte).
+- 11 Voxel-Fundarten: Farnabdruck, Zahn, Eier, Federabdruck, Knochen, Wirbel, Kralle,
+  Rückenplatte, Horn, Schädel, Fährte. Jedes auf Steinsockel, schwebend, mit Funken.
+- Leichter zu finden: goldene Lichtsäule (ohne Nebel, von weitem sichtbar), Fundorte im
+  Ring 320–880 um den Start, größerer Aufhebe-Radius, pulsierende Pfeile, Zähler im HUD.
+- Fossilbuch mit gerenderten Bildern (unbekannte Funde als Silhouette), Reiter
+  „Fossilien“ in der Modellansicht.
+
 Noch offen: menschlicher Spieltest am Handy (Spaß, Schwierigkeit, Bildrate) → Urteil
 PROCEED / PIVOT / KILL.
